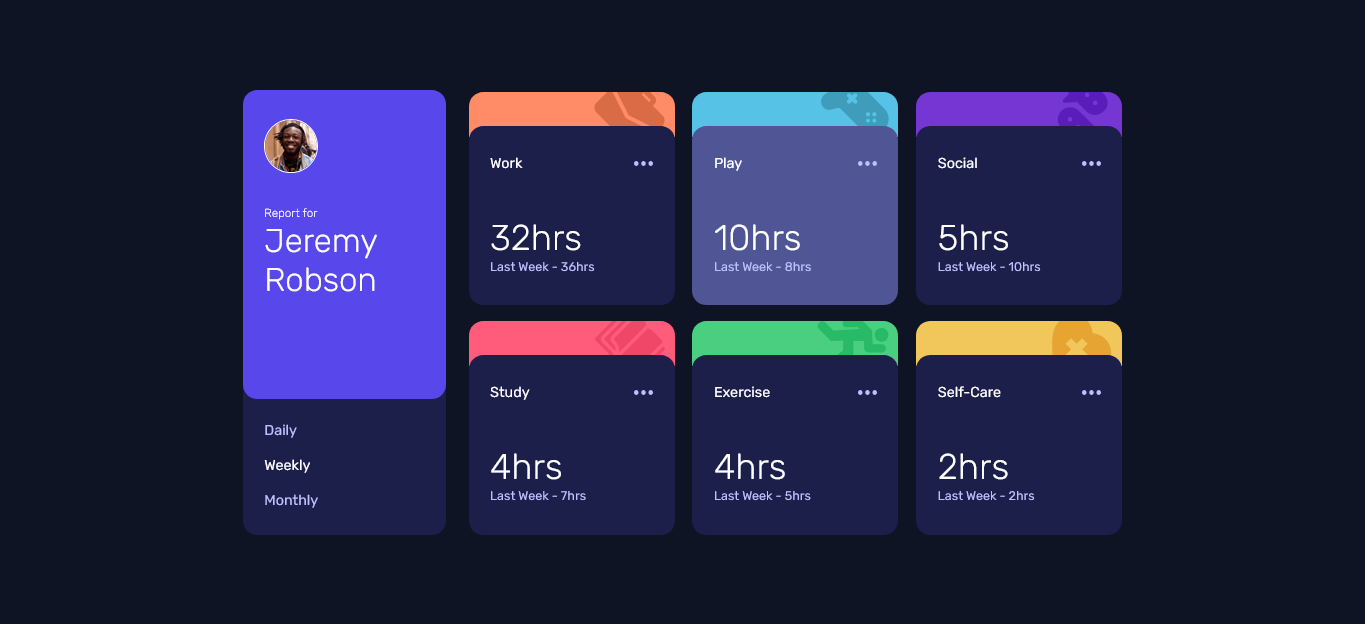
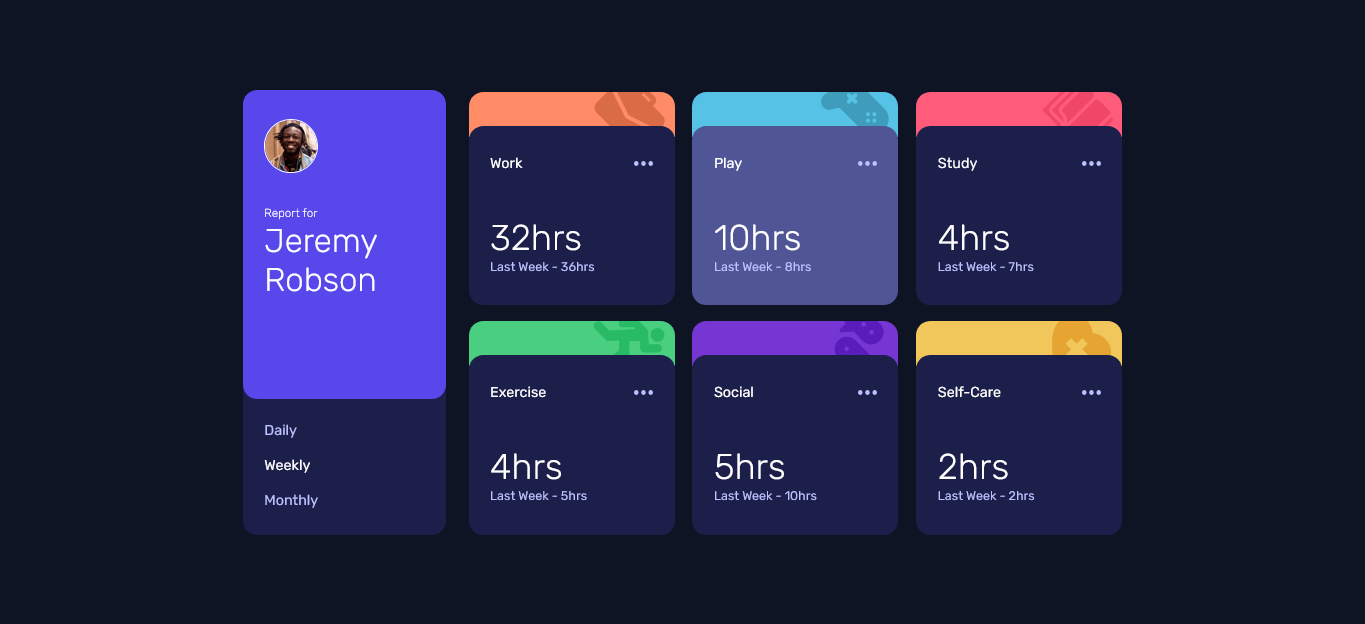
update grid position

diff --git a/style.css b/style.css
@@ -246,7 +246,6 @@ main {
 
   .work {
     grid-column: 1 / 2;
-    grid-row: 1/1;
   }
 
   .play {
@@ -254,8 +253,11 @@ main {
   }
 
   .study {
+    grid-column: 3 / 4;
+  }
+
+  .exercise {
     grid-row: 2 / 3;
-    grid-column: 1 / 2;
   }
 
 
